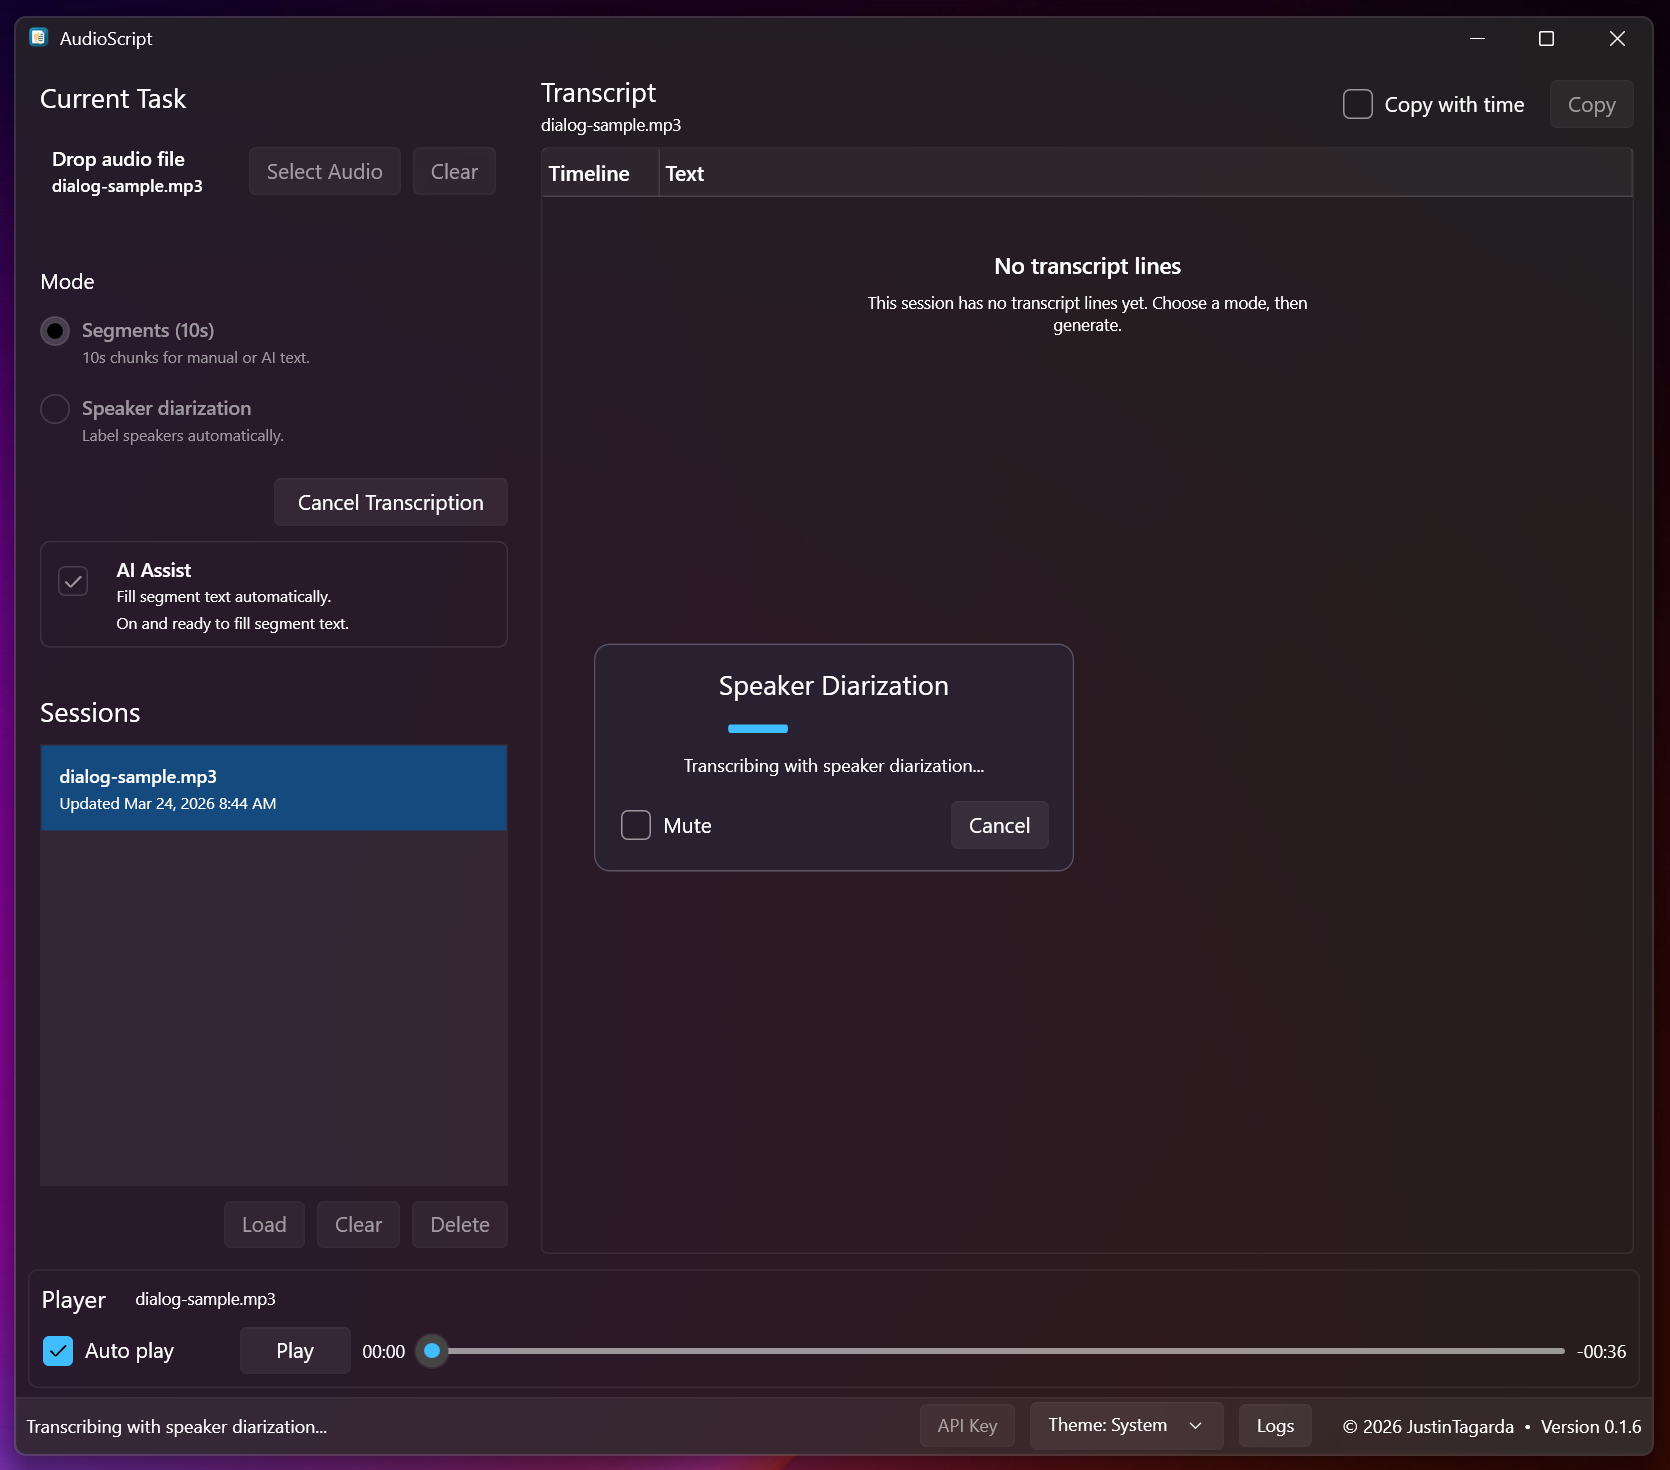
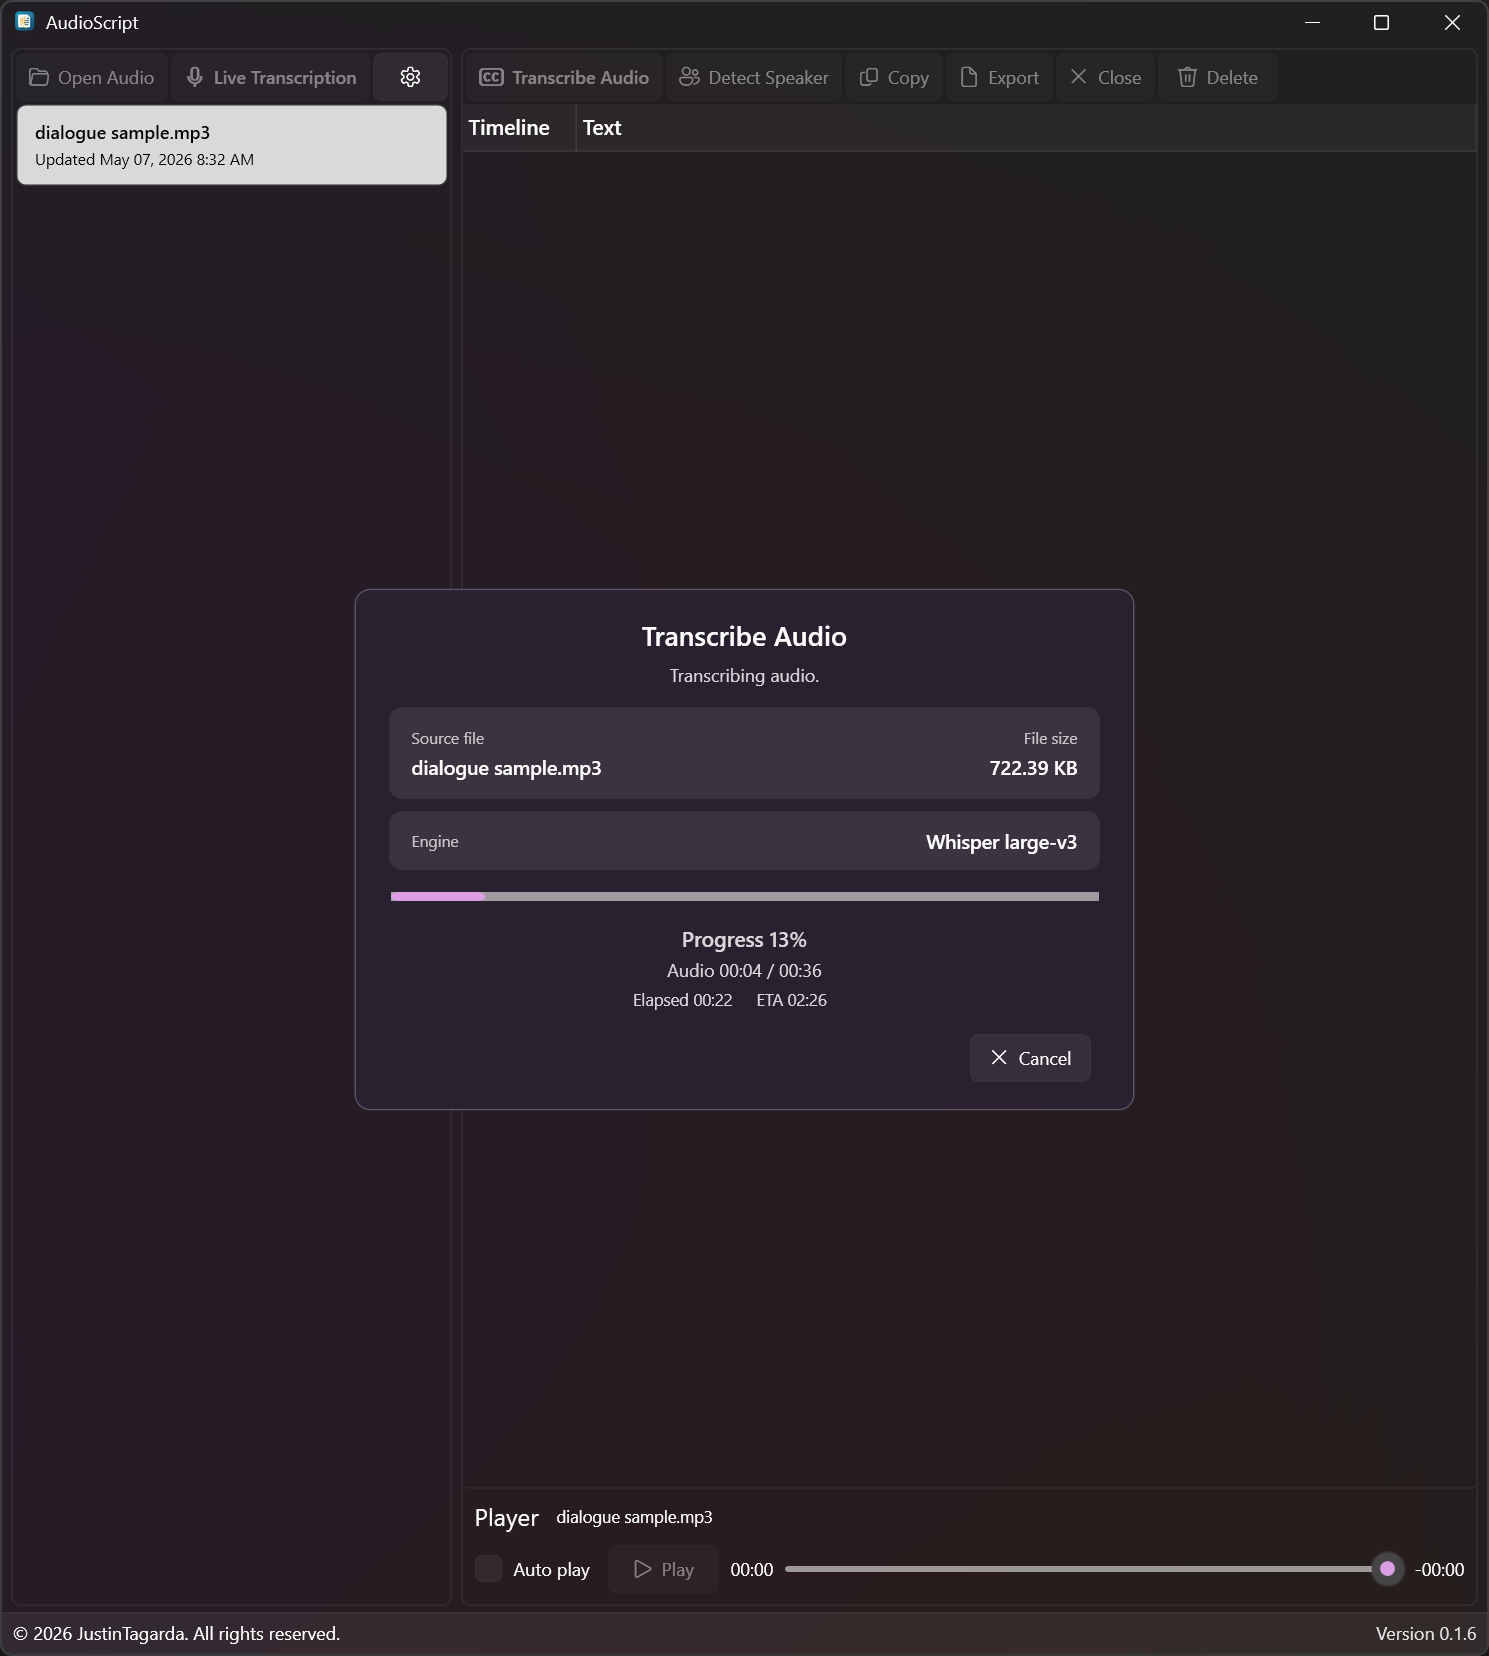
Update AudioScript featured project content and screenshots

diff --git a/src/App.tsx b/src/App.tsx
@@ -16,6 +16,7 @@ import audioscriptScreenshot01 from "./assets/projects/audioscript/Screenshot-01
 import audioscriptScreenshot02 from "./assets/projects/audioscript/Screenshot-02.png";
 import audioscriptScreenshot03 from "./assets/projects/audioscript/Screenshot-03.png";
 import audioscriptScreenshot04 from "./assets/projects/audioscript/Screenshot-04.png";
+import audioscriptScreenshot05 from "./assets/projects/audioscript/Screenshot-05.png";
 import memocardsScreenshot01 from "./assets/projects/memocards/Screenshot-01.png";
 import memocardsScreenshot02 from "./assets/projects/memocards/Screenshot-02.png";
 import memocardsScreenshot03 from "./assets/projects/memocards/Screenshot-03.png";
@@ -123,19 +124,24 @@ const defaultData = {
       featured: true,
       title: "AudioScript",
       subtitle:
-        "Windows desktop transcription app for converting local audio and live playback into clean, editable text, with optional AI transcription and speaker diarization.",
+        "Windows desktop app for offline transcription, speaker diarization, transcript editing, and local session management.",
       browserLabel: "apps.microsoft.com",
-      coverImage: audioscriptScreenshot02,
+      coverImage: audioscriptScreenshot04,
       coverAlt: "AudioScript application screenshot",
-      galleryImages: [audioscriptScreenshot01, audioscriptScreenshot02, audioscriptScreenshot03, audioscriptScreenshot04],
-      bullets: [
-        "Available on Microsoft Store for direct install and updates.",
-        "Transcribes local audio files and live system playback.",
-        "Supports manual and OpenAI-assisted transcription with diarization.",
-        "Saves sessions and secures API keys with Windows Credential Manager.",
-        "Built with WPF (.NET 10), NAudio, and xUnit-tested core behavior.",
+      galleryImages: [
+        audioscriptScreenshot01,
+        audioscriptScreenshot02,
+        audioscriptScreenshot03,
+        audioscriptScreenshot04,
+        audioscriptScreenshot05,
       ],
-      stack: ["WPF", ".NET 10", "C#", "NAudio", "OpenAI API", "xUnit"],
+      bullets: [
+        "Runs transcription locally with Whisper models, including manual transcription mode.",
+        "Performs offline speaker diarization using bundled pyannote-community-1 assets.",
+        "Supports transcript row editing, split/duplicate/delete operations, and speaker renaming.",
+        "Exports transcripts to .docx with tab-delimited and interview-style layouts.",
+      ],
+      stack: ["WPF", ".NET 10", "C#", "NAudio", "Whisper.net", "xUnit"],
       primaryLinkLabel: "Microsoft Store",
       links: {
         liveDemo: "https://apps.microsoft.com/detail/9mvc9bqrq0r7?hl=en-US&gl=PH",
